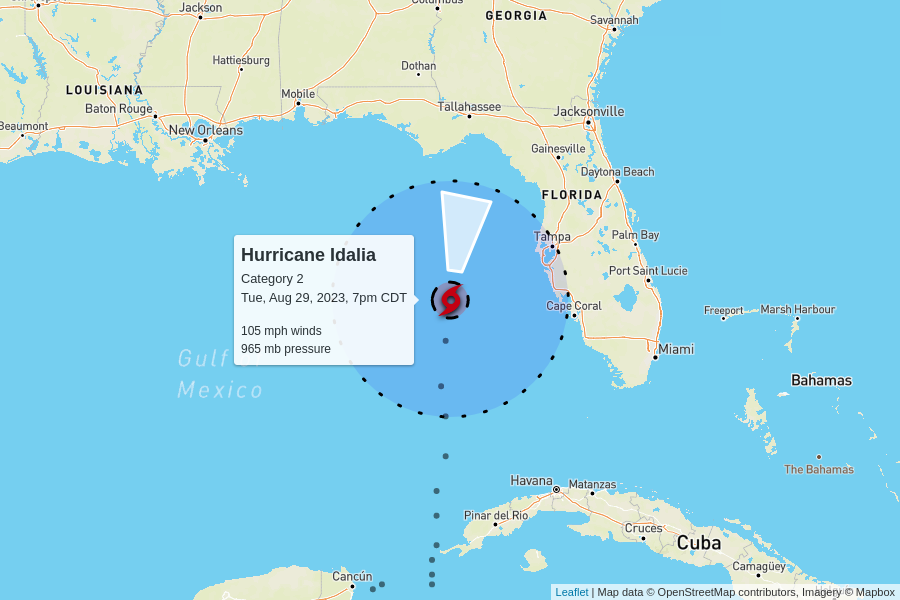
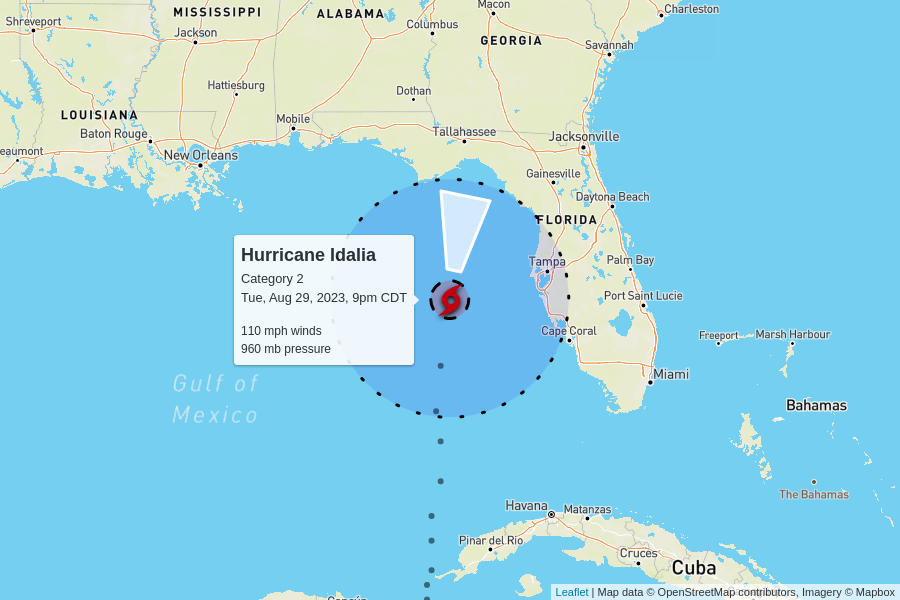
automatic update

diff --git a/docs/index.html b/docs/index.html
@@ -100,7 +100,7 @@
         <td colspan="6" class="storm category-2" >
           <h2>
             Hurricane Idalia - Category 2
-            <p class="updated">last updated <span data-time>2023-08-30T00:00:00.000Z</span></p>
+            <p class="updated">last updated <span data-time>2023-08-30T02:00:00.000Z</span></p>
           </h2>
         </td>
       </tr>
@@ -115,10 +115,10 @@
       </tr>
       <tr>
         <td class="spacer"></td>
-        <td>105 mph</td>
-        <td>965 mb</td>
+        <td>110 mph</td>
+        <td>960 mb</td>
         <td>
-          16 mph to the north
+          18 mph to the north
           <br/>
           <span style="display: inline-block; font-size: 1.5em; transform: rotate(10deg);">↑</span>
         </td>
